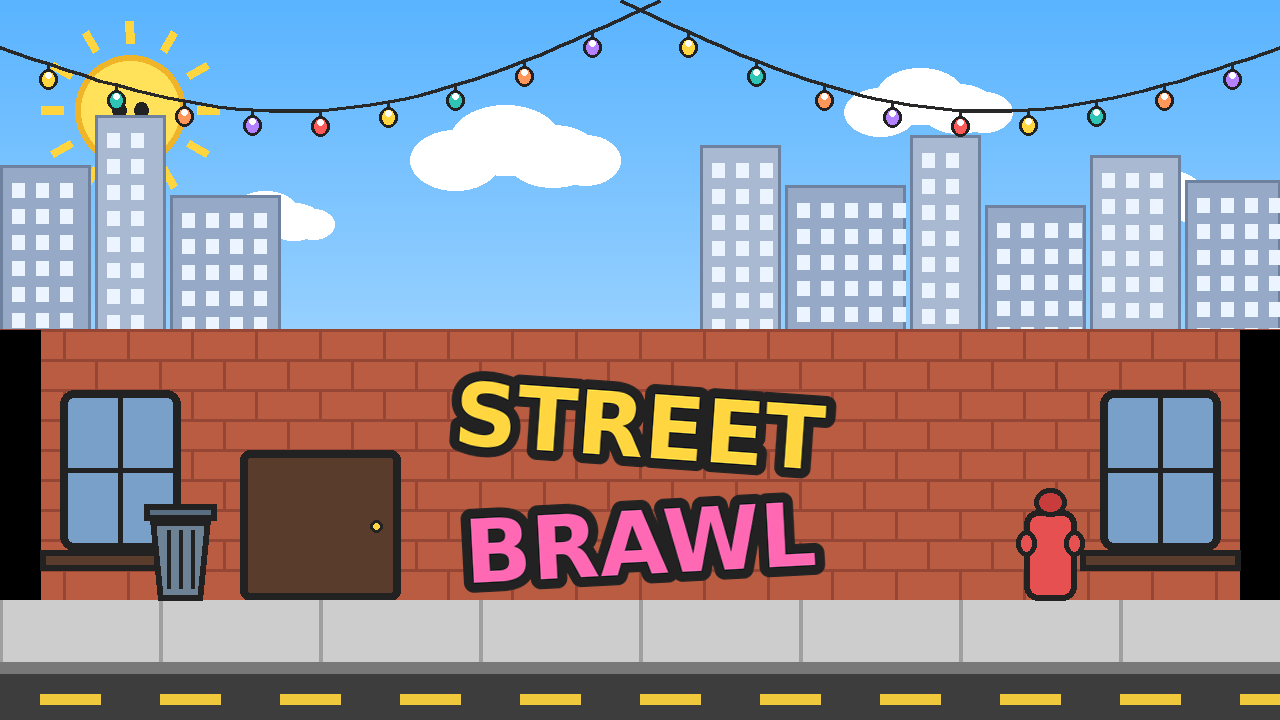
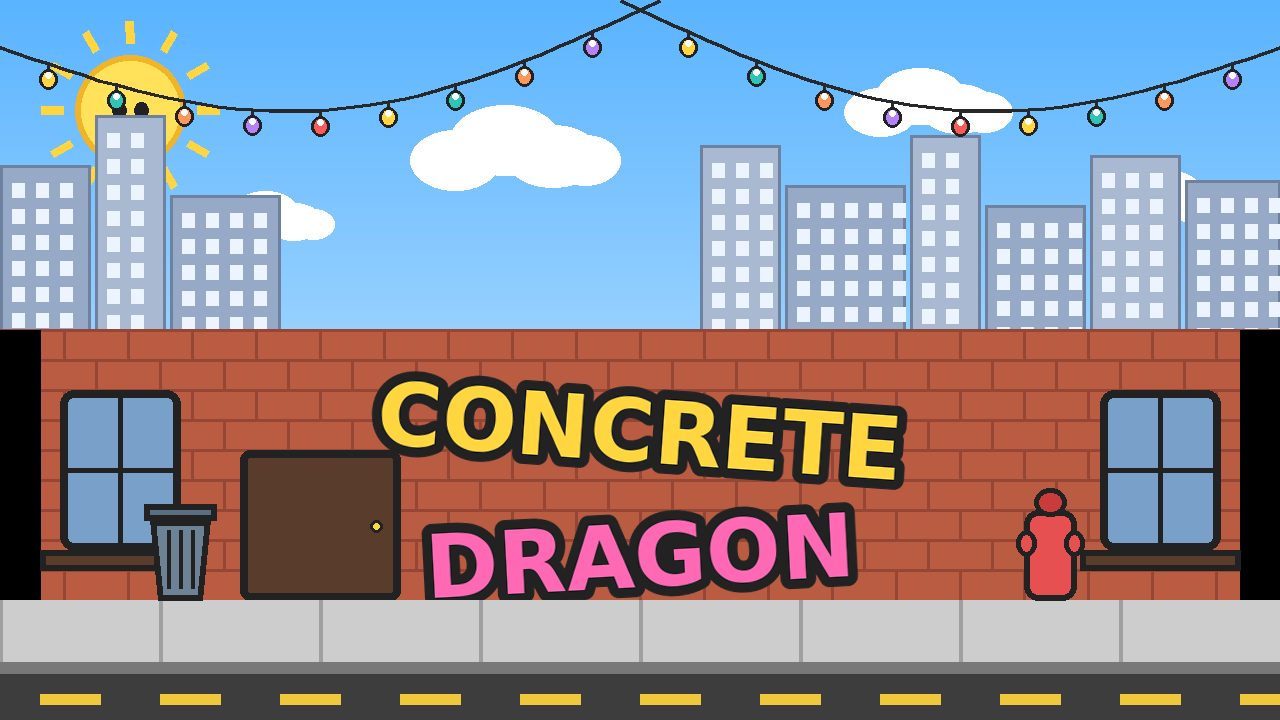
Fix stage branding: STREET BRAWL -> CONCRETE DRAGON graffiti (2026-10-06)

Changed region(s): [[0.2812, 0.5194, 0.7188, 0.8556]]

diff --git a/game/tools/gen_stage_ui.py b/game/tools/gen_stage_ui.py
@@ -77,7 +77,7 @@ for wx in (120, 1160):
 d.rounded_rectangle([240, 450, 400, GROUND_Y], radius=10, fill=(90, 60, 45), outline=DARK, width=8)
 d.ellipse([370, 520, 382, 532], fill=(255, 214, 64), outline=DARK, width=3)
 
-# graffiti "STREET BRAWL" - original lettering drawn as stroked text on a tilted layer
+# graffiti "CONCRETE DRAGON" - original lettering drawn as stroked text on a tilted layer
 fb1 = ImageFont.truetype(FONTB, 88)
 fb2 = ImageFont.truetype(FONTB, 88)
 def graffiti_layer(text, font, fill, angle):
@@ -89,8 +89,8 @@ def graffiti_layer(text, font, fill, angle):
             stroke_width=10, stroke_fill=DARK)
     return lay.rotate(angle, expand=True, resample=Image.BICUBIC)
 
-g1 = graffiti_layer("STREET", fb1, (255, 214, 64, 255), -4)
-g2 = graffiti_layer("BRAWL", fb2, (255, 105, 180, 255), 3)
+g1 = graffiti_layer("CONCRETE", fb1, (255, 214, 64, 255), -4)
+g2 = graffiti_layer("DRAGON", fb2, (255, 105, 180, 255), 3)
 img.paste(g1, ((W - g1.width) // 2, 352), g1)
 img.paste(g2, ((W - g2.width) // 2, 352 + g1.height - 24), g2)
 
